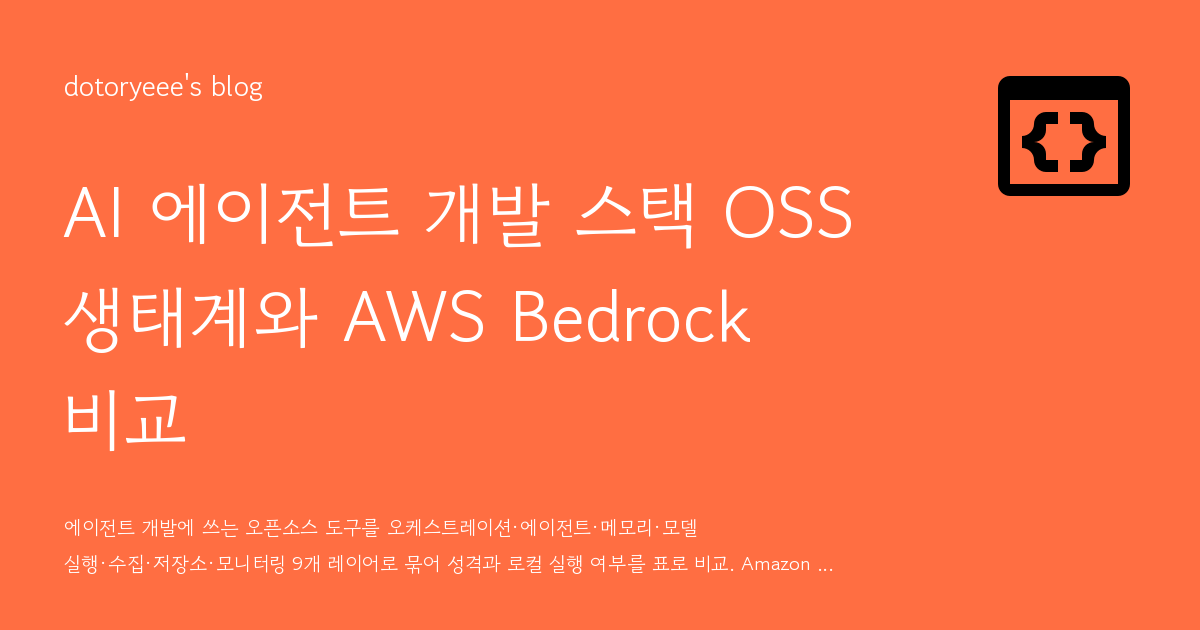
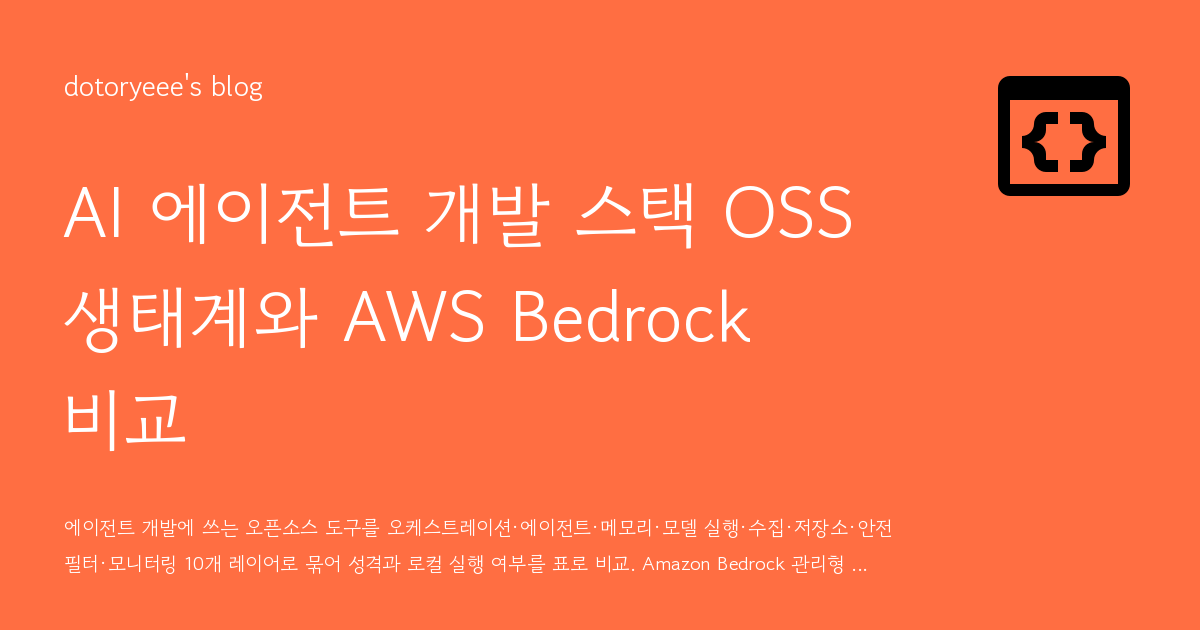
Deployed 5225d77b with MkDocs version: 1.6.1

Changed region(s): [[0.0617, 0.8746, 0.7092, 0.9048], [0.5858, 0.8143, 0.74, 0.8444]]

diff --git a/2026/08/19/ai-에이전트-개발-스택-oss-생태계와-aws-bedrock-비교/index.html b/2026/08/19/ai-에이전트-개발-스택-oss-생태계와-aws-bedrock-비교/index.html
@@ -6,7 +6,7 @@
       <meta charset="utf-8">
       <meta name="viewport" content="width=device-width,initial-scale=1">
       
-        <meta name="description" content="에이전트 개발에 쓰는 오픈소스 도구를 오케스트레이션·에이전트·메모리·모델 실행·수집·저장소·모니터링 9개 레이어로 묶어 성격과 로컬 실행 여부를 표로 비교. Amazon Bedrock 관리형 서비스와의 대응도 정리">
+        <meta name="description" content="에이전트 개발에 쓰는 오픈소스 도구를 오케스트레이션·에이전트·메모리·모델 실행·수집·저장소·안전 필터·모니터링 10개 레이어로 묶어 성격과 로컬 실행 여부를 표로 비교. Amazon Bedrock 관리형 서비스와의 대응도 정리">
       
       
       
@@ -87,7 +87,7 @@
   
 <meta property="og:type" content="website" />
 <meta property="og:title" content="AI 에이전트 개발 스택 OSS 생태계와 AWS Bedrock 비교 - dotoryeee's blog" />
-<meta property="og:description" content="에이전트 개발에 쓰는 오픈소스 도구를 오케스트레이션·에이전트·메모리·모델 실행·수집·저장소·모니터링 9개 레이어로 묶어 성격과 로컬 실행 여부를 표로 비교. Amazon Bedrock 관리형 서비스와의 대응도 정리" />
+<meta property="og:description" content="에이전트 개발에 쓰는 오픈소스 도구를 오케스트레이션·에이전트·메모리·모델 실행·수집·저장소·안전 필터·모니터링 10개 레이어로 묶어 성격과 로컬 실행 여부를 표로 비교. Amazon Bedrock 관리형 서비스와의 대응도 정리" />
 <meta property="og:image" content="https://dotoryeee.github.io/blog/assets/images/social/2026/08/19/ai-%EC%97%90%EC%9D%B4%EC%A0%84%ED%8A%B8-%EA%B0%9C%EB%B0%9C-%EC%8A%A4%ED%83%9D-oss-%EC%83%9D%ED%83%9C%EA%B3%84%EC%99%80-aws-bedrock-%EB%B9%84%EA%B5%90.png" />
 <meta property="og:image:type" content="image/png" />
 <meta property="og:image:width" content="1200" />
@@ -95,7 +95,7 @@
 <meta property="og:url" content="https://dotoryeee.github.io/blog/2026/08/19/ai-%EC%97%90%EC%9D%B4%EC%A0%84%ED%8A%B8-%EA%B0%9C%EB%B0%9C-%EC%8A%A4%ED%83%9D-oss-%EC%83%9D%ED%83%9C%EA%B3%84%EC%99%80-aws-bedrock-%EB%B9%84%EA%B5%90/" />
 <meta property="twitter:card" content="summary_large_image" />
 <meta property="twitter:title" content="AI 에이전트 개발 스택 OSS 생태계와 AWS Bedrock 비교 - dotoryeee's blog" />
-<meta property="twitter:description" content="에이전트 개발에 쓰는 오픈소스 도구를 오케스트레이션·에이전트·메모리·모델 실행·수집·저장소·모니터링 9개 레이어로 묶어 성격과 로컬 실행 여부를 표로 비교. Amazon Bedrock 관리형 서비스와의 대응도 정리" />
+<meta property="twitter:description" content="에이전트 개발에 쓰는 오픈소스 도구를 오케스트레이션·에이전트·메모리·모델 실행·수집·저장소·안전 필터·모니터링 10개 레이어로 묶어 성격과 로컬 실행 여부를 표로 비교. Amazon Bedrock 관리형 서비스와의 대응도 정리" />
 <meta property="twitter:image" content="https://dotoryeee.github.io/blog/assets/images/social/2026/08/19/ai-%EC%97%90%EC%9D%B4%EC%A0%84%ED%8A%B8-%EA%B0%9C%EB%B0%9C-%EC%8A%A4%ED%83%9D-oss-%EC%83%9D%ED%83%9C%EA%B3%84%EC%99%80-aws-bedrock-%EB%B9%84%EA%B5%90.png" />
 </head>
   
@@ -848,6 +848,17 @@
   <a href="#_8" class="md-nav__link">
     <span class="md-ellipsis">
       
+        안전 필터
+      
+    </span>
+  </a>
+  
+</li>
+      
+        <li class="md-nav__item">
+  <a href="#_9" class="md-nav__link">
+    <span class="md-ellipsis">
+      
         모니터링과 평가
       
     </span>
@@ -882,7 +893,7 @@
   <a href="#vs-vllm-ollama-sglang" class="md-nav__link">
     <span class="md-ellipsis">
       
-        기반 모델 호출 vs vLLM, Ollama, SGLang
+        파운데이션 모델 호출 vs vLLM, Ollama, SGLang
       
     </span>
   </a>
@@ -934,7 +945,7 @@
 </li>
         
           <li class="md-nav__item">
-  <a href="#_9" class="md-nav__link">
+  <a href="#_10" class="md-nav__link">
     <span class="md-ellipsis">
       
         선택 기준
@@ -1027,7 +1038,7 @@
                           <svg xmlns="http://www.w3.org/2000/svg" viewBox="0 0 24 24"><path d="M12 20a8 8 0 0 0 8-8 8 8 0 0 0-8-8 8 8 0 0 0-8 8 8 8 0 0 0 8 8m0-18a10 10 0 0 1 10 10 10 10 0 0 1-10 10C6.47 22 2 17.5 2 12A10 10 0 0 1 12 2m.5 5v5.25l4.5 2.67-.75 1.23L11 13V7z"/></svg>
                           <span class="md-ellipsis">
                             
-                              읽는시간 16분
+                              읽는시간 17분
                             
                           </span>
                         </div>
@@ -2436,7 +2447,58 @@
 </tbody>
 </table>
 <hr />
-<h2 id="_8">모니터링과 평가</h2>
+<h2 id="_8">안전 필터</h2>
+<p>모델 앞뒤에서 유해 콘텐츠, 금지 주제, 민감정보, 프롬프트 인젝션을 걸러내는 계층이다.</p>
+<table>
+<thead>
+<tr>
+<th>도구</th>
+<th>성격</th>
+<th>적용 지점</th>
+<th>로컬 실행</th>
+<th>비고</th>
+</tr>
+</thead>
+<tbody>
+<tr>
+<td>NeMo Guardrails</td>
+<td>프레임워크. Colang 스크립트로 입력, 출력, 대화 흐름 레일 정의</td>
+<td>앱 코드에 내장</td>
+<td>가능</td>
+<td>Apache-2.0. NVIDIA</td>
+</tr>
+<tr>
+<td>Guardrails AI</td>
+<td>프레임워크. Hub에서 validator를 골라 입력과 출력 검증</td>
+<td>앱 코드에 내장</td>
+<td>가능</td>
+<td>Apache-2.0. Pydantic 출력 검증</td>
+</tr>
+<tr>
+<td>LLM Guard</td>
+<td>스캐너 모음. 프롬프트 인젝션, PII, 독성, 금지 주제 등 입력과 출력 스캐너</td>
+<td>앱 코드 또는 API 서버</td>
+<td>가능</td>
+<td>MIT. Protect AI. 2026-07 저장소 archive 처리로 유지보수 종료</td>
+</tr>
+<tr>
+<td>Presidio</td>
+<td>PII 탐지와 익명화 엔진</td>
+<td>앱 코드 또는 서버</td>
+<td>가능</td>
+<td>MIT. Microsoft가 만들었고 2026년 커뮤니티 조직 Data Privacy Stack으로 이관. LLM 이전부터 쓰던 도구라 star는 가장 많지만 PII 전용</td>
+</tr>
+<tr>
+<td>Llama Guard</td>
+<td>안전성 분류 모델. 입력과 출력을 유해 범주로 분류</td>
+<td>별도 모델 추론</td>
+<td>가능</td>
+<td>Llama 라이선스. Meta. Prompt Guard는 인젝션 전용 소형 분류기</td>
+</tr>
+</tbody>
+</table>
+<hr />
+<h2 id="_9">모니터링과 평가</h2>
 <p>에이전트가 실제로 어떻게 움직였는지 기록하고 그 결과가 좋았는지 점수를 매기는 계층이다.</p>
 <table>
 <thead>
@@ -2582,6 +2644,11 @@
 <td>Microsoft GraphRAG</td>
 </tr>
 <tr>
+<td>안전 필터</td>
+<td>Guardrails AI</td>
+<td>NeMo Guardrails</td>
+</tr>
+<tr>
 <td>모니터링</td>
 <td>Langfuse</td>
 <td>Opik</td>
@@ -2607,7 +2674,7 @@
 <tbody>
 <tr>
 <td>모델 실행</td>
-<td>Bedrock 기반 모델 호출</td>
+<td>Bedrock 파운데이션 모델 호출</td>
 <td>vLLM, Ollama, llama.cpp, SGLang</td>
 </tr>
 <tr>
@@ -2632,14 +2699,13 @@
 </tr>
 </tbody>
 </table>
-<p>안전 필터는 위 레이어 표에 따로 두지 않았던 항목이라 여기서 처음 나온다.</p>
-<h3 id="vs-vllm-ollama-sglang">기반 모델 호출 vs vLLM, Ollama, SGLang</h3>
+<h3 id="vs-vllm-ollama-sglang">파운데이션 모델 호출 vs vLLM, Ollama, SGLang</h3>
 <p>Claude, Llama, Mistral, Amazon Nova, OpenAI 모델 등을 하나의 API로 호출하는 서빙 계층이다.</p>
 <table>
 <thead>
 <tr>
 <th>구분</th>
-<th>Bedrock 기반 모델</th>
+<th>Bedrock 파운데이션 모델</th>
 <th>OSS 런타임</th>
 </tr>
 </thead>
@@ -2800,7 +2866,7 @@
 </tr>
 </tbody>
 </table>
-<h3 id="_9">선택 기준</h3>
+<h3 id="_10">선택 기준</h3>
 <p>Bedrock 쪽이 맞는 경우다.</p>
 <ul>
 <li>인프라 인력이 적고 개발 속도와 IAM, VPC, PII 마스킹 같은 컴플라이언스가 우선일 때</li>

diff --git a/category/ai/index.html b/category/ai/index.html
@@ -798,7 +798,7 @@
           
           <li class="md-meta__item">
             
-              읽는시간 16분
+              읽는시간 17분
             
           </li>
         

diff --git a/index.html b/index.html
@@ -794,7 +794,7 @@
           
           <li class="md-meta__item">
             
-              읽는시간 16분
+              읽는시간 17분
             
           </li>
         
